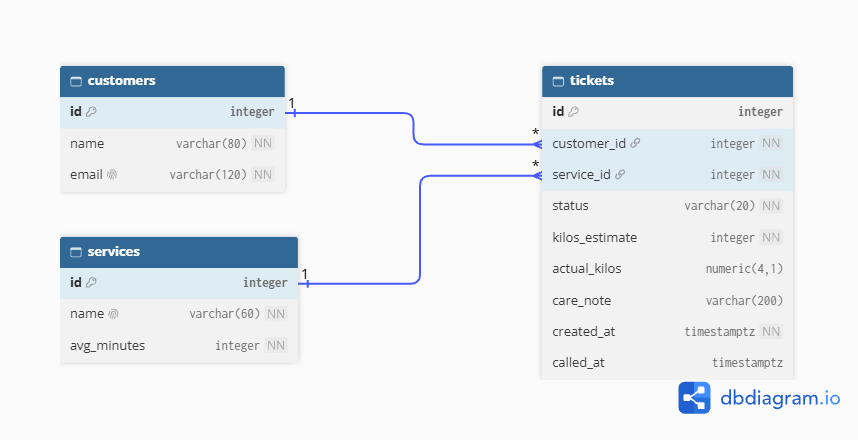
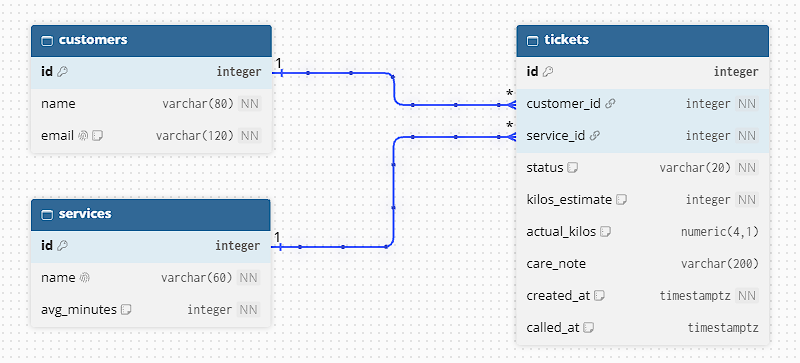
schema review (#3)

diff --git a/docs/week4/schema-review.md b/docs/week4/schema-review.md
@@ -1,0 +1,30 @@
+# Schema self-review
+
+## 1. Coverage (question 1)
+
+**Works well:** Every requirement with Stores data? = Yes has a table or column. The Week 3 data (name, email, service, kilos, status) is in `customers`, `services` and `tickets`, and the staff dashboard (FR-03) can order loads by `tickets.created_at`.
+**Problem:** In my first draft, FR-11 (staff record the actual weight, which may differ from the estimate) had no column. I only stored the customer's estimate, so staff would have had nowhere to put the real weight. I found this by checking each *Stores data* requirement against my columns (question 1).
+**Change:** I added `tickets.actual_kilos` (numeric(4,1), empty until staff weigh the load) and renamed `kilos` to `kilos_estimate`, so the two weights cannot be confused. The final ERD and `schema.md` already include both.
+
+## 2. Bad data: email typed in different capitals (question 4)
+
+**Works well:** `customers.email` is UNIQUE, so a returning customer is matched to their existing row instead of getting a second one.
+**Problem:** PostgreSQL treats `Ana@School.edu` and `ana@school.edu` as different values, so UNIQUE alone allows two rows for one person if the email is not lowercased first. My Flask code lowercases it, but a bug or a direct insert would skip that.
+**Change:** I added `CHECK (email = lower(email))` to `customers.email`, so the database itself only accepts lowercase emails. I updated 2c in `schema.md` and the ERD.
+
+## 3. Facts that could disagree (questions 3 and 4)
+
+**Works well:** I store `called_at`, the moment a load became ready, and compute "ready for more than 3 days" (FR-12) from it. No "days waiting" number is stored, so it can never go out of date.
+**Problem:** Nothing stopped a ticket from having status `called` or `served` with an empty `called_at`, and FR-12 would then miss that load.
+**Change:** I added a table CHECK: `status NOT IN ('called', 'served') OR called_at IS NOT NULL`. A load can only be ready or picked up if it has a ready time. I updated 2c in `schema.md` and the ERD.
+
+## 4. Deletes (question 5)
+
+**Works well:** Both foreign keys use RESTRICT. A service or a customer with tickets cannot be deleted, so the shop keeps its history for reports, and staff switch a service off (FR-09) instead of deleting it.
+**Problem:** A mistaken ticket (FR-14) is hard-deleted, but its customer row stays behind with no tickets.
+**Change:** I kept it as it is. A leftover customer does no harm, and the same row is reused the next time that person joins with the same email. Removing it automatically would need extra code for very little benefit.
+
+## Other questions checked
+
+- **One fact in one place (question 2):** A customer's name and email are stored once in `customers`, and a service's name once in `services`. I found no repeated facts.
+- **Types (question 6):** Every moment in time is `timestamptz`, the estimate is an integer and the actual weight is a numeric, and no number is stored as text.

diff --git a/docs/week4/schema.md b/docs/week4/schema.md
@@ -29,7 +29,7 @@
 | --- | --- | --- | --- | --- |
 | customers | id | integer, generated | PRIMARY KEY | Generated by the database, never reused |
 | customers | name | varchar(80) | NOT NULL | Staff need a name to hand back the right bag |
-| customers | email | varchar(120) | NOT NULL UNIQUE | One customer row per email; a returning customer gets a new ticket, not a new row |
+| customers | email | varchar(120) | NOT NULL UNIQUE, CHECK (email = lower(email)) | One customer row per email; the CHECK stops "Ana@x.com" and "ana@x.com" from becoming two customers |
 | services | id | integer, generated | PRIMARY KEY | Stable identity even if the service is renamed |
 | services | name | varchar(60) | NOT NULL UNIQUE | No two services with the same name |
 | services | avg_minutes | integer | NOT NULL, CHECK (avg_minutes > 0) | Rejects impossible times; staff always enter it when adding a service |
@@ -41,7 +41,7 @@
 | tickets | actual_kilos | numeric(4,1) | nullable, CHECK (actual_kilos > 0) | Weighed by staff at the counter (FR-11), so it can be a decimal and is empty until then |
 | tickets | care_note | varchar(200) | nullable | Optional (FR-13); most loads have none |
 | tickets | created_at | timestamptz | NOT NULL DEFAULT now() | Time zone safe, set by the database, decides the order in line |
-| tickets | called_at | timestamptz | nullable | Empty until the load is ready for pickup; used for FR-12 |
+| tickets | called_at | timestamptz | nullable; table CHECK (status NOT IN ('called','served') OR called_at IS NOT NULL) | Empty until the load is ready for pickup; the CHECK means a ready or picked-up load always has a ready time (used for FR-12) |
 
 ## 2d. ERD
 
